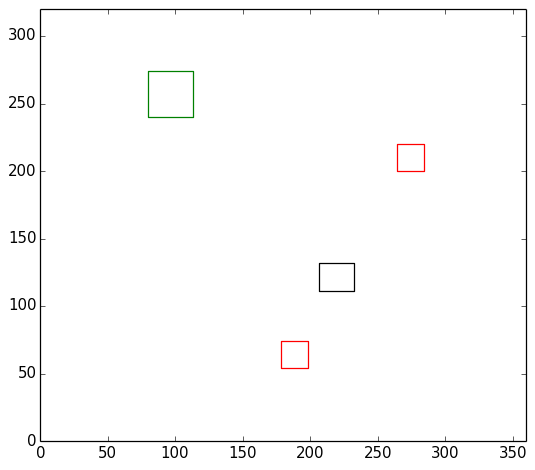
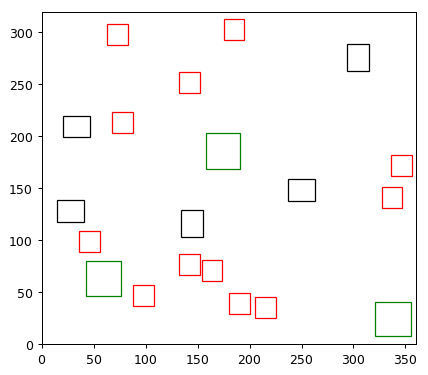
update

diff --git a/random_algoritm.py b/random_algoritm.py
@@ -11,6 +11,7 @@ import numpy as np
 import locale
 import timeit
 import math
+from os import path
 
 # import files
 import classes
@@ -18,23 +19,26 @@ import main
 import helpers
 import visualisation
 
+# start = timeit.default_timer()
 
-
-TOTAL_HOUSES = 60
 X_DIMENSION = 360
 Y_DIMENSION = 320
 
 
+
 def main(total_houses, iterations):
+
+    # where to save output files
+    outpath = ("output/{}".format(total_houses))
+
     best_iteration = 0
+
+    fig1 = plt.figure()
 
     for i in range(iterations):
 
         # fill building array with a house at a random point
         buildings = []
-
-        # append first house to array 'buildings'
-        buildings.append(classes.House(X_DIMENSION, Y_DIMENSION))
 
         # set number of each building type
         h_number = 0.6 * total_houses
@@ -45,7 +49,7 @@ def main(total_houses, iterations):
         h_counter, b_counter, m_counter = 0, 0, 0
 
         # build houses until maximum is reached
-        while (len(buildings) - 1) < total_houses:
+        while len(buildings) < total_houses:
 
 	        # choose random building type
             building_type = random.choice(['house', 'bungalow', 'maison'])
@@ -59,8 +63,6 @@ def main(total_houses, iterations):
             if building_type == 'maison' and m_counter < m_number:
                 buildings, m_counter = helpers.m_build(buildings, m_counter)
 
-        # delete first house from array
-        buildings.pop(0)
 
         # calculate closest distance to buildings
         counter = 0
@@ -73,10 +75,11 @@ def main(total_houses, iterations):
         if (total_value > best_iteration):
             best_iteration = total_value
 
-            fig1 = plt.figure()
+            # add subplot
             ax1 = fig1.add_subplot(111, aspect='equal')
-            ax1.set_xlim(0, 360)
-            ax1.set_ylim(0, 320)
+            ax1.set_xlim(0, X_DIMENSION)
+            ax1.set_ylim(0, Y_DIMENSION)
+            plt.suptitle("The total value is: {:,}".format(best_iteration))
 
             for building in buildings:
                 if building.name == 'house':
@@ -86,10 +89,11 @@ def main(total_houses, iterations):
                 if building.name == 'maison':
                     visualisation.drawBuilding(ax1, building, building.left_bottom[0], building.left_bottom[1], 'green')
 
-            # safe figure
-            fig1.savefig('probeersel.png', dpi=90, bbox_inches='tight')
+            # save figure
+            fig1.savefig(path.join(outpath,"20_houses_{0}.png".format(i)))
+            plt.gcf().clear()
+            print best_iteration
 
-        print best_iteration
 	# stop = timeit.default_timer()
 	# print "De tijd is: ", stop - start
     print "De hoogste score is: ", best_iteration

diff --git a/helpers.py b/helpers.py
@@ -36,6 +36,9 @@ def h_build(buildings, h_counter):
 	yrandom = random.randint(0, Y_DIMENSION - classes.House.length)
 	house = classes.House(xrandom, yrandom)
 
+	if not buildings:
+		buildings.append(house)
+		return buildings, h_counter
 
 	olap = True
 	for building in buildings:
@@ -57,12 +60,17 @@ def b_build(buildings, b_counter):
 	xrandom = random.randint(0, X_DIMENSION - classes.Bungalow.width)
 	yrandom = random.randint(0, Y_DIMENSION - classes.Bungalow.length)
 	bungalow = classes.Bungalow(xrandom, yrandom)
-	if random.choice((True, False)):
-		if True:
-			bungalow.length, bungalow.width = bungalow.width, bungalow.length
-			bungalow.left_top[1] = yrandom + bungalow.length
-			bungalow.right_top = [xrandom + bungalow.width, yrandom + bungalow.length]
-			bungalow.right_bottom[0] = xrandom + bungalow.width
+
+	choice = random.getrandbits(1)
+	if choice:
+		bungalow.length, bungalow.width = bungalow.width, bungalow.length
+		bungalow.left_top[1] = yrandom + bungalow.length
+		bungalow.right_top = [xrandom + bungalow.width, yrandom + bungalow.length]
+		bungalow.right_bottom[0] = xrandom + bungalow.width
+
+	if not buildings:
+		buildings.append(bungalow)
+		return buildings, b_counter
 
 	olap = True
 	for building in buildings:
@@ -84,13 +92,18 @@ def m_build(buildings, m_counter):
 	xrandom = random.randint(0, X_DIMENSION - classes.Maison.width)
 	yrandom = random.randint(0, Y_DIMENSION - classes.Maison.length)
 	maison = classes.Maison(xrandom, yrandom)
+
 	# random: length, width = width, length
-	if random.choice((True, False)):
-		if True:
-			maison.length, maison.width = maison.width, maison.length
-			maison.left_top[1] = yrandom + maison.length
-			maison.right_top = [xrandom + maison.width, yrandom + maison.length]
-			maison.right_bottom[0] = xrandom + maison.width
+	choice = random.getrandbits(1)
+	if choice:
+		maison.length, maison.width = maison.width, maison.length
+		maison.left_top[1] = yrandom + maison.length
+		maison.right_top = [xrandom + maison.width, yrandom + maison.length]
+		maison.right_bottom[0] = xrandom + maison.width
+
+	if not buildings:
+		buildings.append(maison)
+		return buildings, m_counter
 
 	olap = True
 	for building in buildings:
@@ -105,7 +118,6 @@ def m_build(buildings, m_counter):
 		m_counter += 1
 
 	return buildings, m_counter
-
 
 def closest_distance(current_building, buildings):
 

diff --git a/amstelhaegen_algoritme.py b/amstelhaegen_algoritme.py
@@ -12,7 +12,7 @@ import locale
 import timeit
 import math
 
-# import files
+# import filesd
 import classes
 import main
 
